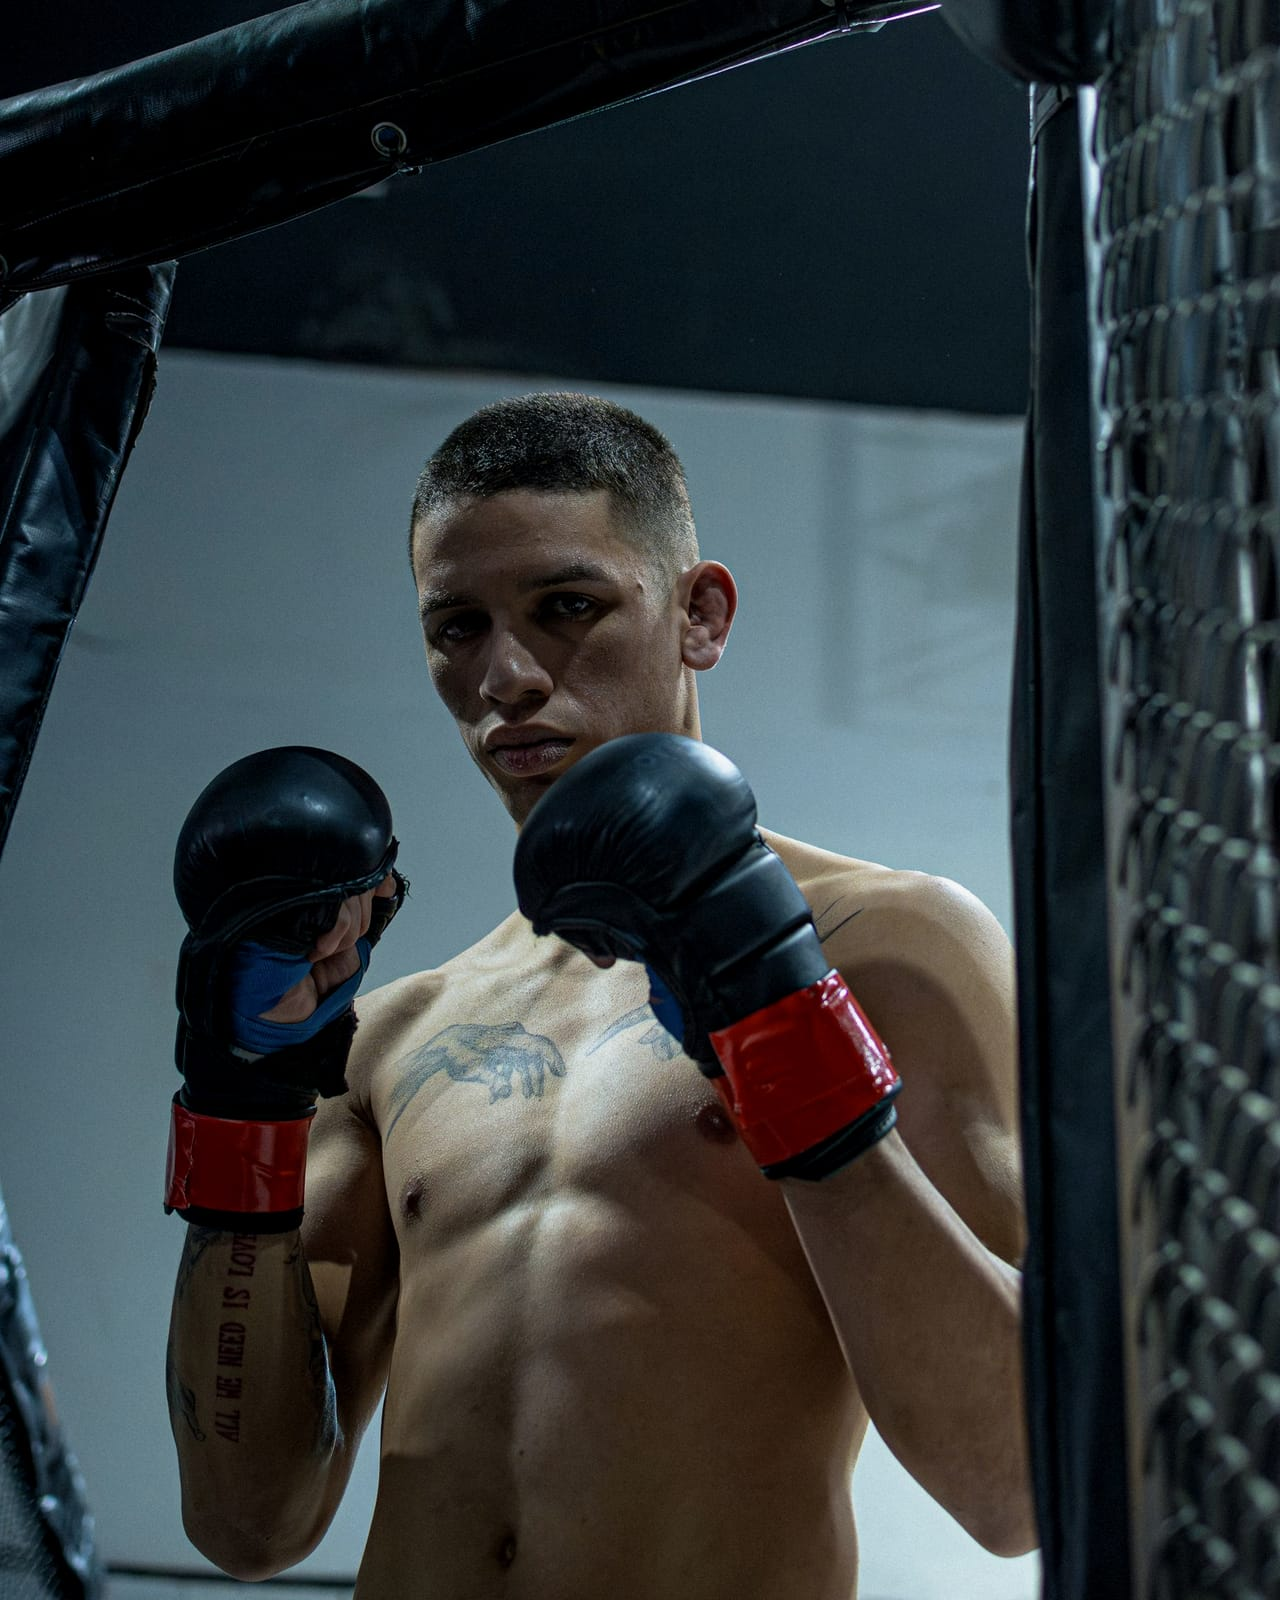
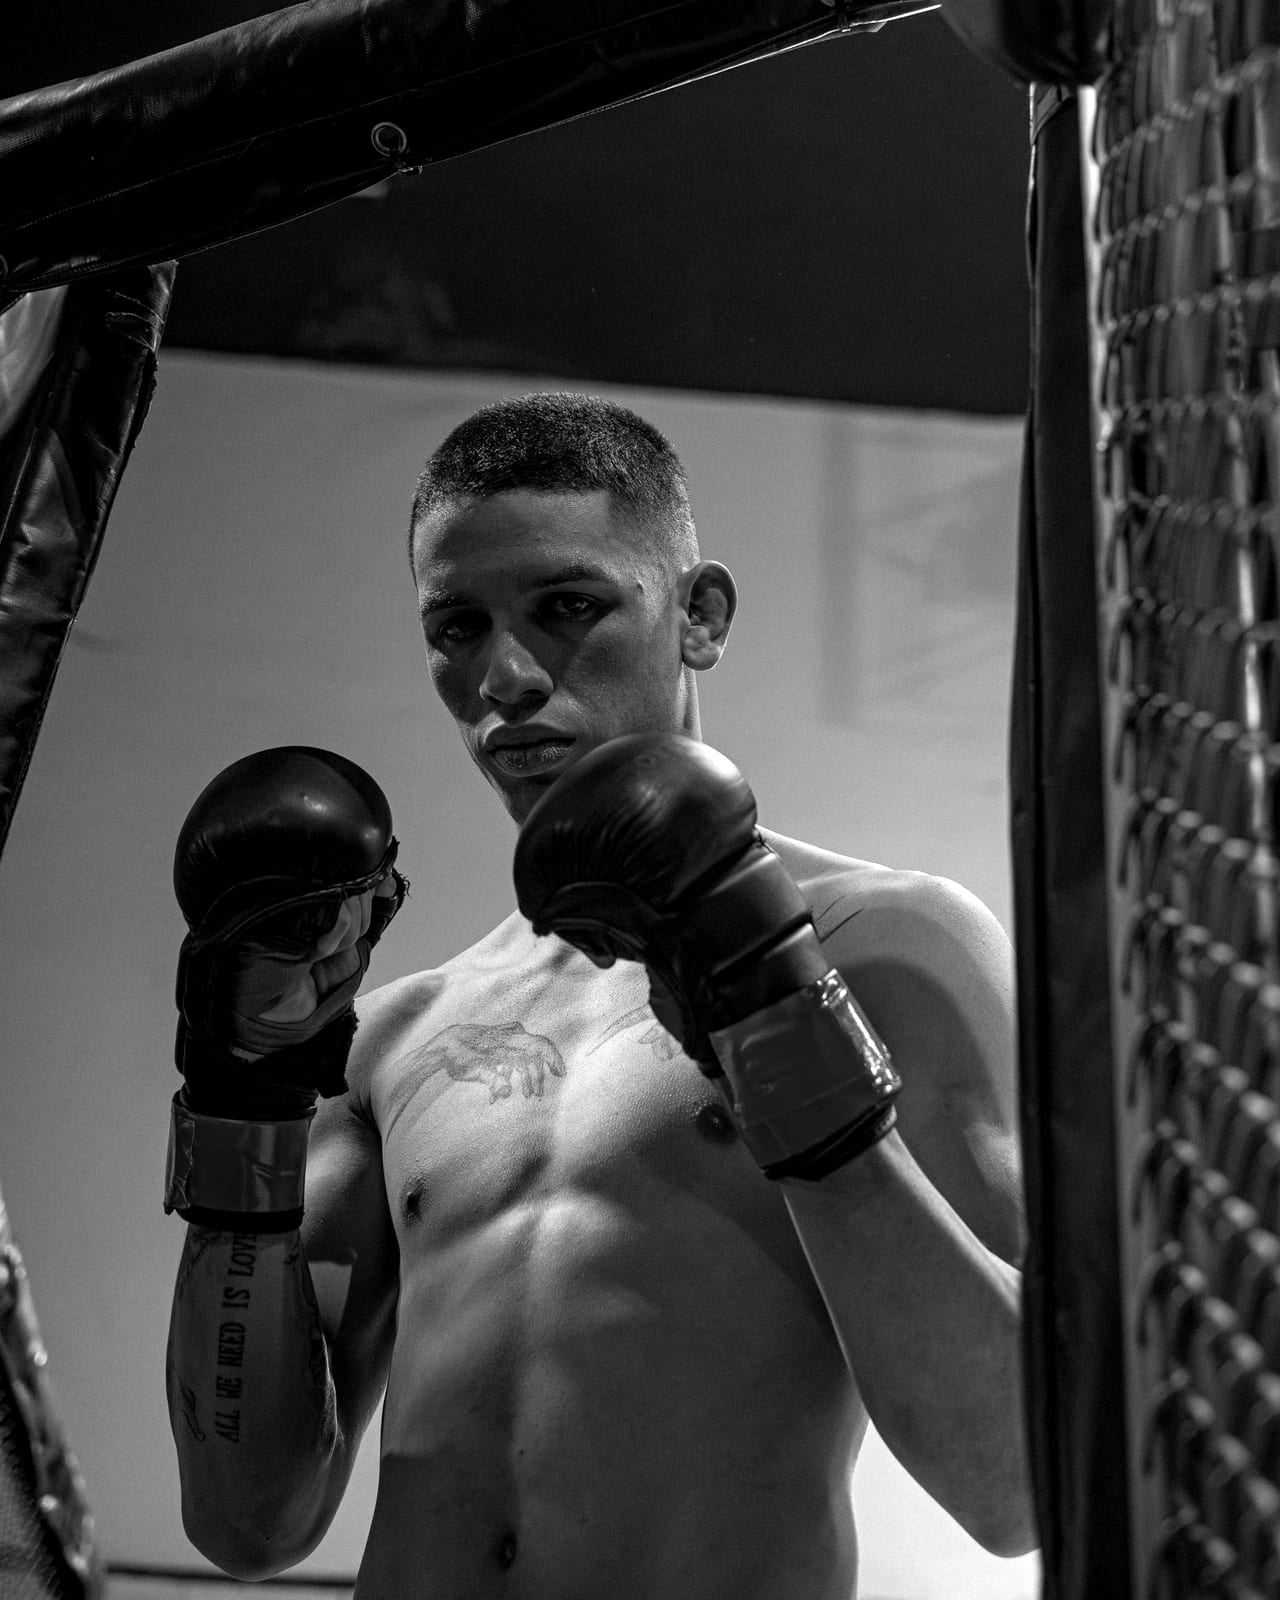
Hero: black-and-white heavy-bag photo leads, slider set to B&W

diff --git a/config/copy.ts b/config/copy.ts
@@ -17,7 +17,7 @@ export const COPY = {
     cta: "Get my free audit",
     ctaLabel: ["Get your free", "brand audit"] as const,
     images: [
-      { src: "/img/hero-1.jpg", alt: "A fighter in MMA gloves, guard up, on a black background" },
+      { src: "/img/hero-1.jpg", alt: "A boxer throwing a punch at a heavy bag in a dark gym" },
       { src: "/img/hero-2.jpg", alt: "A fighter in boxing gloves inside a cage" },
       { src: "/img/hero-3.jpg", alt: "A fighter in MMA gloves looking into the camera" },
     ],
